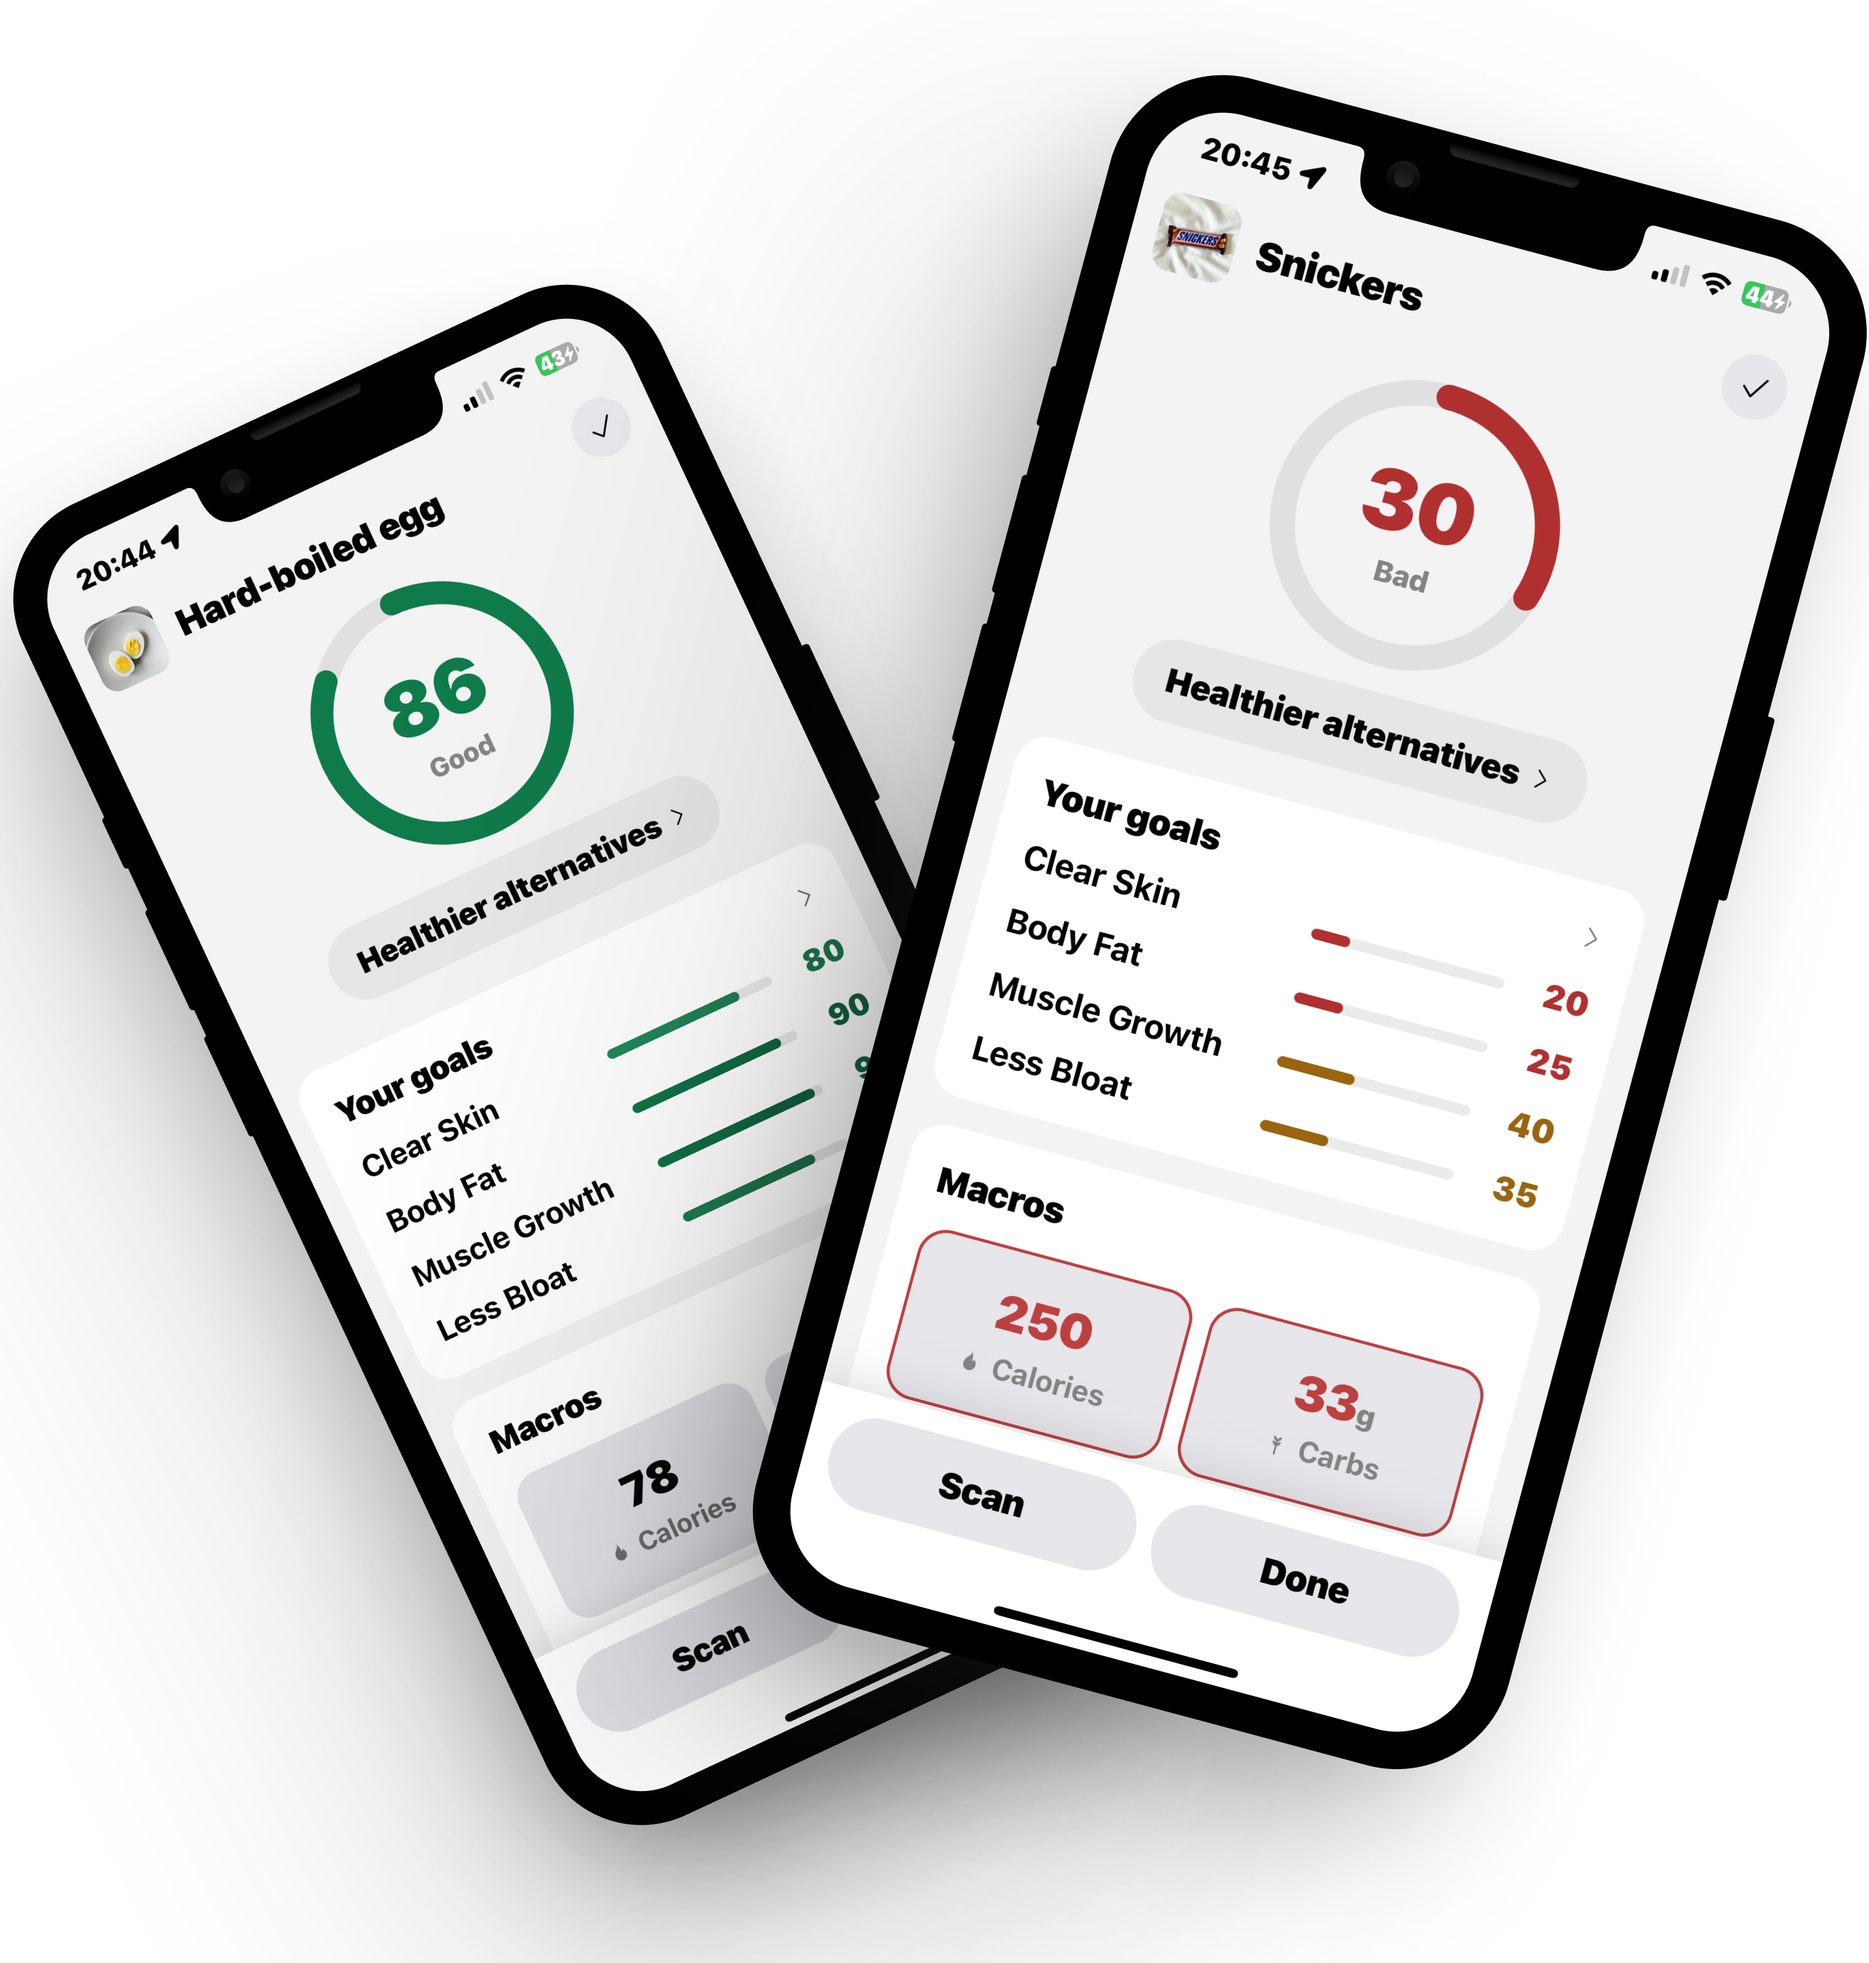
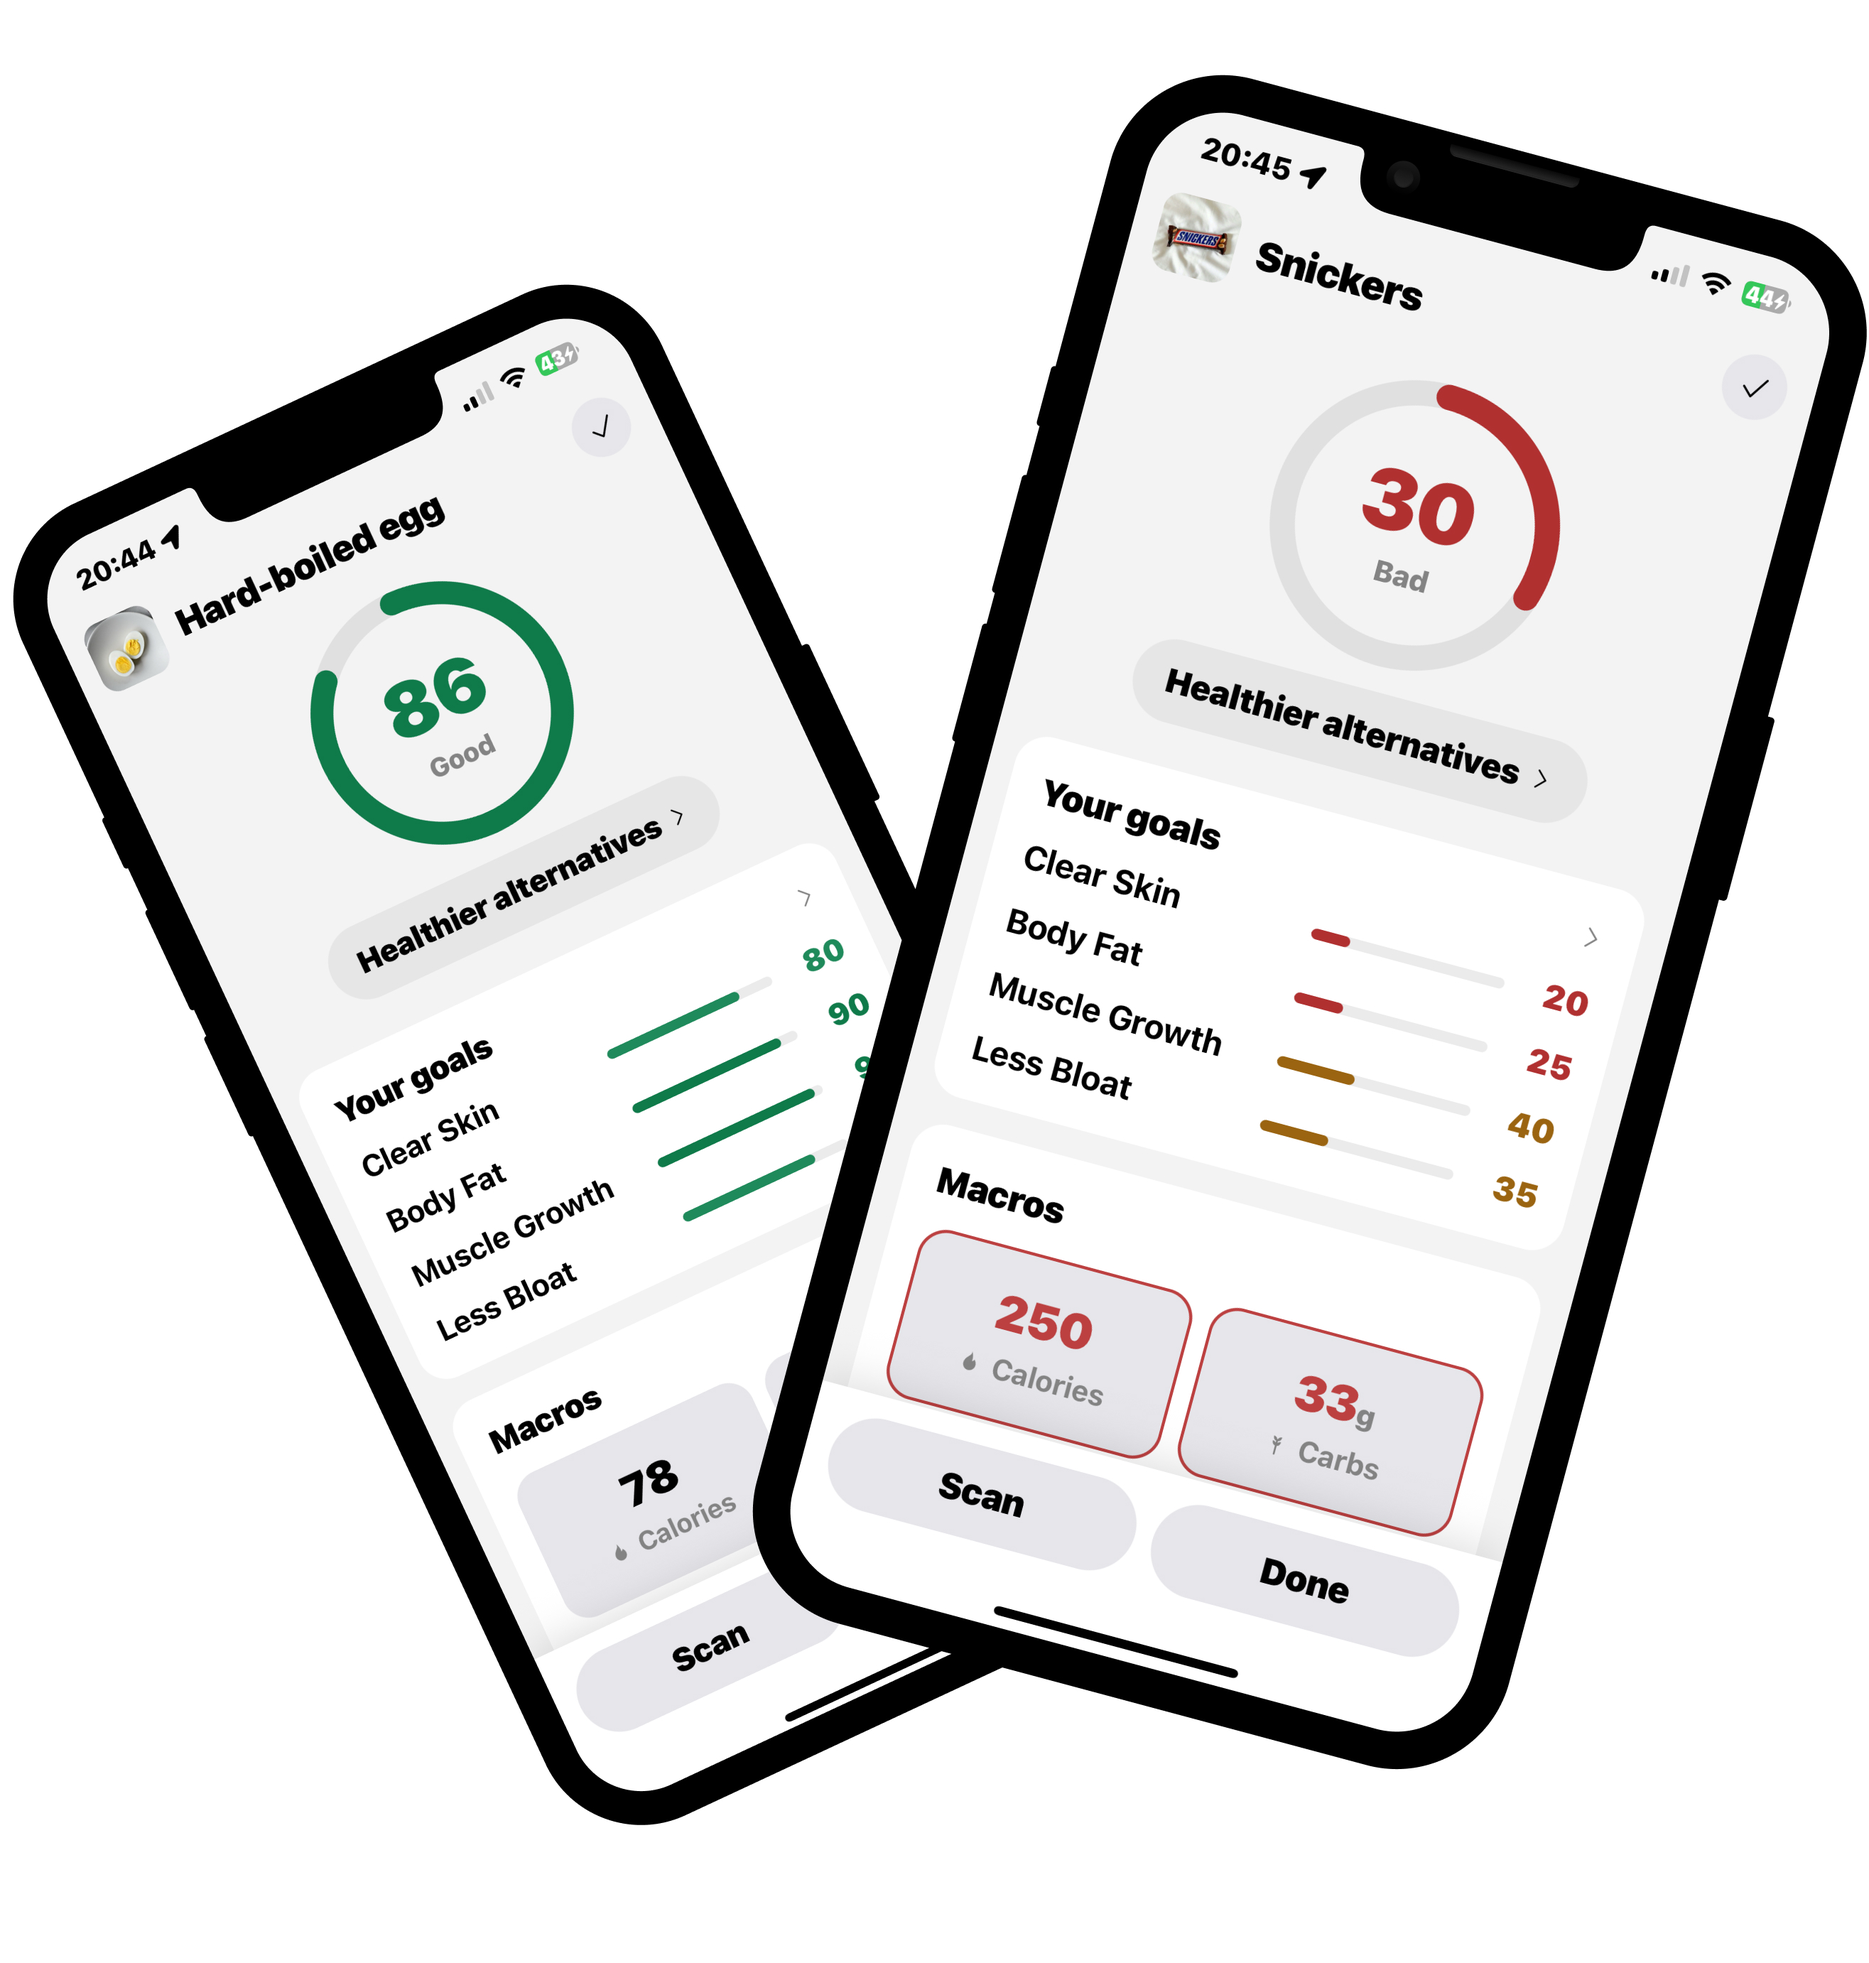
No-shadow hero mockup, Shortcuts-style hold-to-open download row

Changed region(s): [[0.0, 0.0623, 0.7792, 1.0], [0.374, 0.249, 0.4052, 0.2801], [0.1558, 0.1868, 0.187, 0.2179]]

diff --git a/script.js b/script.js
@@ -1,2 +1,33 @@
-// Nothing to do yet — the page is static markup only.
-// Re-add scroll-reveal logic here when the feature/cause sections come back.
+// "Hold to open" row — mirrors an iOS Shortcuts Home Screen bookmark:
+// a plain tap does nothing, only a sustained press navigates.
+(function () {
+  var HOLD_MS = 550;
+
+  document.querySelectorAll("[data-hold-link]").forEach(function (link) {
+    var timer = null;
+
+    function start(e) {
+      link.classList.add("pressing");
+      timer = setTimeout(function () {
+        link.classList.remove("pressing");
+        window.location.href = link.href;
+      }, HOLD_MS);
+    }
+
+    function cancel() {
+      link.classList.remove("pressing");
+      clearTimeout(timer);
+    }
+
+    link.addEventListener("click", function (e) { e.preventDefault(); });
+    link.addEventListener("pointerdown", start);
+    link.addEventListener("pointerup", cancel);
+    link.addEventListener("pointerleave", cancel);
+    link.addEventListener("pointercancel", cancel);
+
+    link.addEventListener("keydown", function (e) {
+      if ((e.key === "Enter" || e.key === " ") && !timer) start(e);
+    });
+    link.addEventListener("keyup", cancel);
+  });
+})();

diff --git a/styles.css b/styles.css
@@ -174,6 +174,64 @@ a { color: inherit; text-decoration: none; }
   margin: 14px 0 0;
 }
 
+/* ---- Shortcuts-style "hold to open" row ---- */
+
+.shortcut-row {
+  display: inline-flex;
+  align-items: center;
+  gap: 12px;
+  max-width: 100%;
+  margin-top: 18px;
+  padding: 10px 16px;
+  border-radius: 16px;
+  background: var(--surface-alt);
+  transition: transform 0.08s ease, background 0.15s ease;
+  cursor: pointer;
+  -webkit-user-select: none;
+  user-select: none;
+  -webkit-touch-callout: none;
+}
+
+.shortcut-row.pressing {
+  background: var(--border-strong);
+  transform: scale(0.98);
+}
+
+.shortcut-icon {
+  width: 40px;
+  height: 40px;
+  border-radius: 10px;
+  overflow: hidden;
+  flex: none;
+}
+
+.shortcut-icon img { width: 100%; height: 100%; }
+
+.shortcut-text {
+  display: flex;
+  align-items: baseline;
+  gap: 6px;
+  font-size: 15px;
+  white-space: nowrap;
+}
+
+.shortcut-title {
+  font-weight: 600;
+  color: var(--text);
+}
+
+.shortcut-sub {
+  color: var(--muted);
+  white-space: nowrap;
+}
+
+.shortcut-menu {
+  flex: none;
+  color: var(--muted);
+  display: flex;
+  margin-left: 4px;
+}
+
 /* ---- hero visual: real device mockup ---- */
 
 .hero-visual {

diff --git a/index.html b/index.html
@@ -52,6 +52,18 @@
           </a>
         </div>
         <p class="cta-note">3-day free trial, then a yearly plan.</p>
+
+        <!-- TODO: replace # with the real App Store URL -->
+        <a href="#" class="shortcut-row" data-hold-link aria-label="Clear Food Download. Press and hold to open.">
+          <span class="shortcut-icon"><img src="assets/icon-180.png" alt="" /></span>
+          <span class="shortcut-text">
+            <span class="shortcut-title">Clear Food Download</span>
+            <span class="shortcut-sub">(Hold to open)</span>
+          </span>
+          <span class="shortcut-menu" aria-hidden="true">
+            <svg width="18" height="18" viewBox="0 0 24 24" fill="currentColor"><circle cx="5" cy="12" r="2"/><circle cx="12" cy="12" r="2"/><circle cx="19" cy="12" r="2"/></svg>
+          </span>
+        </a>
       </div>
 
       <div class="hero-visual">
